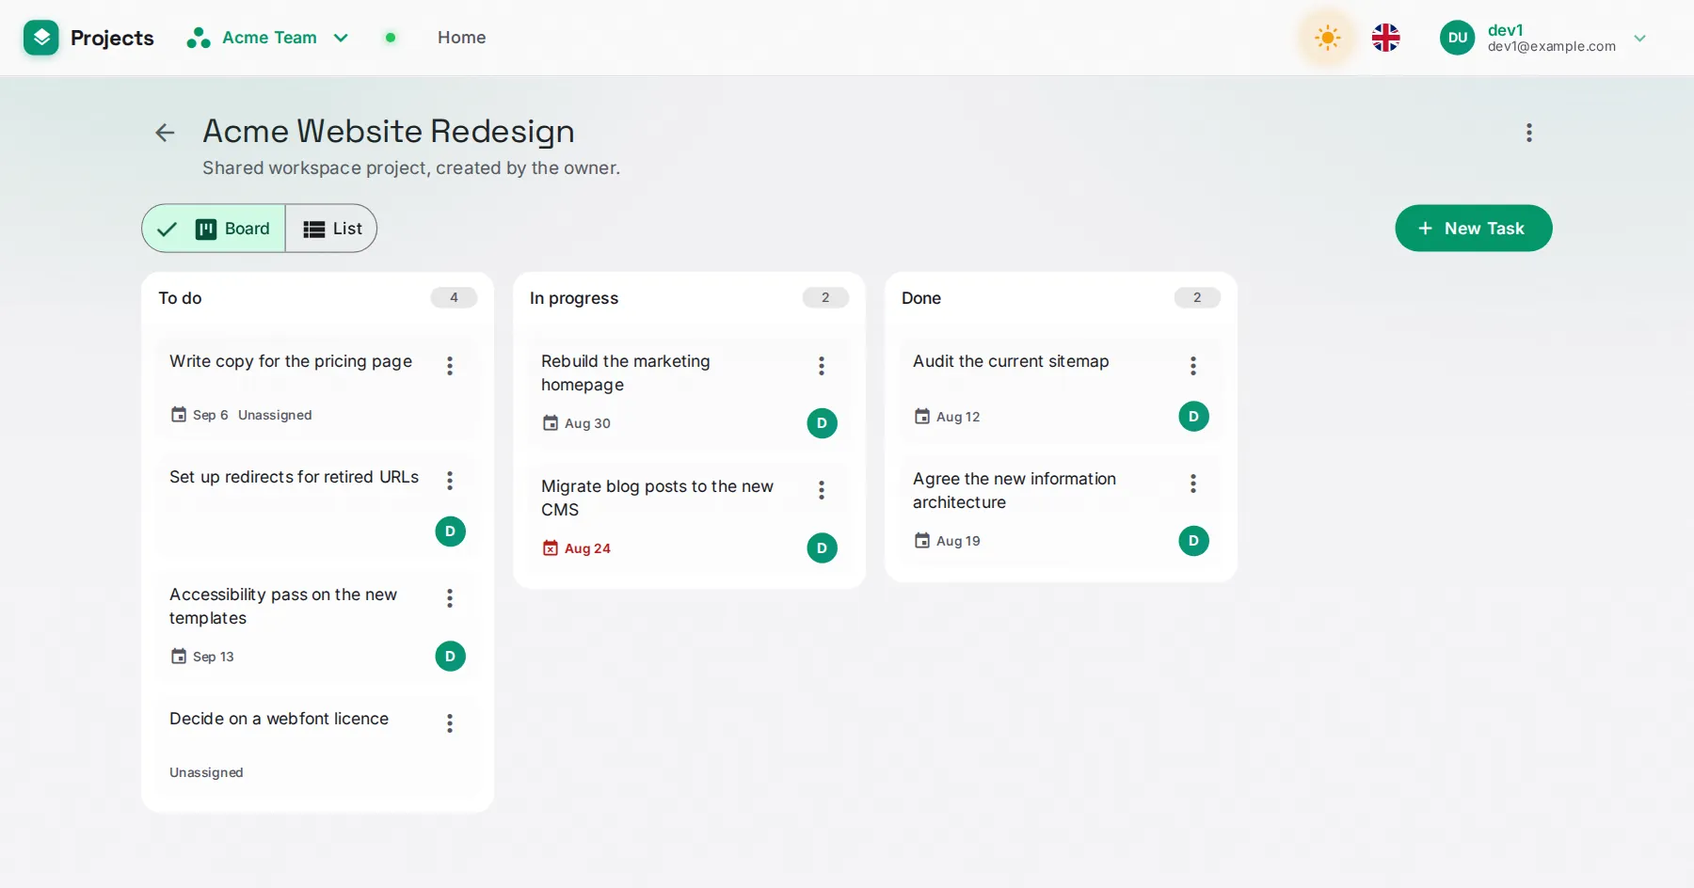
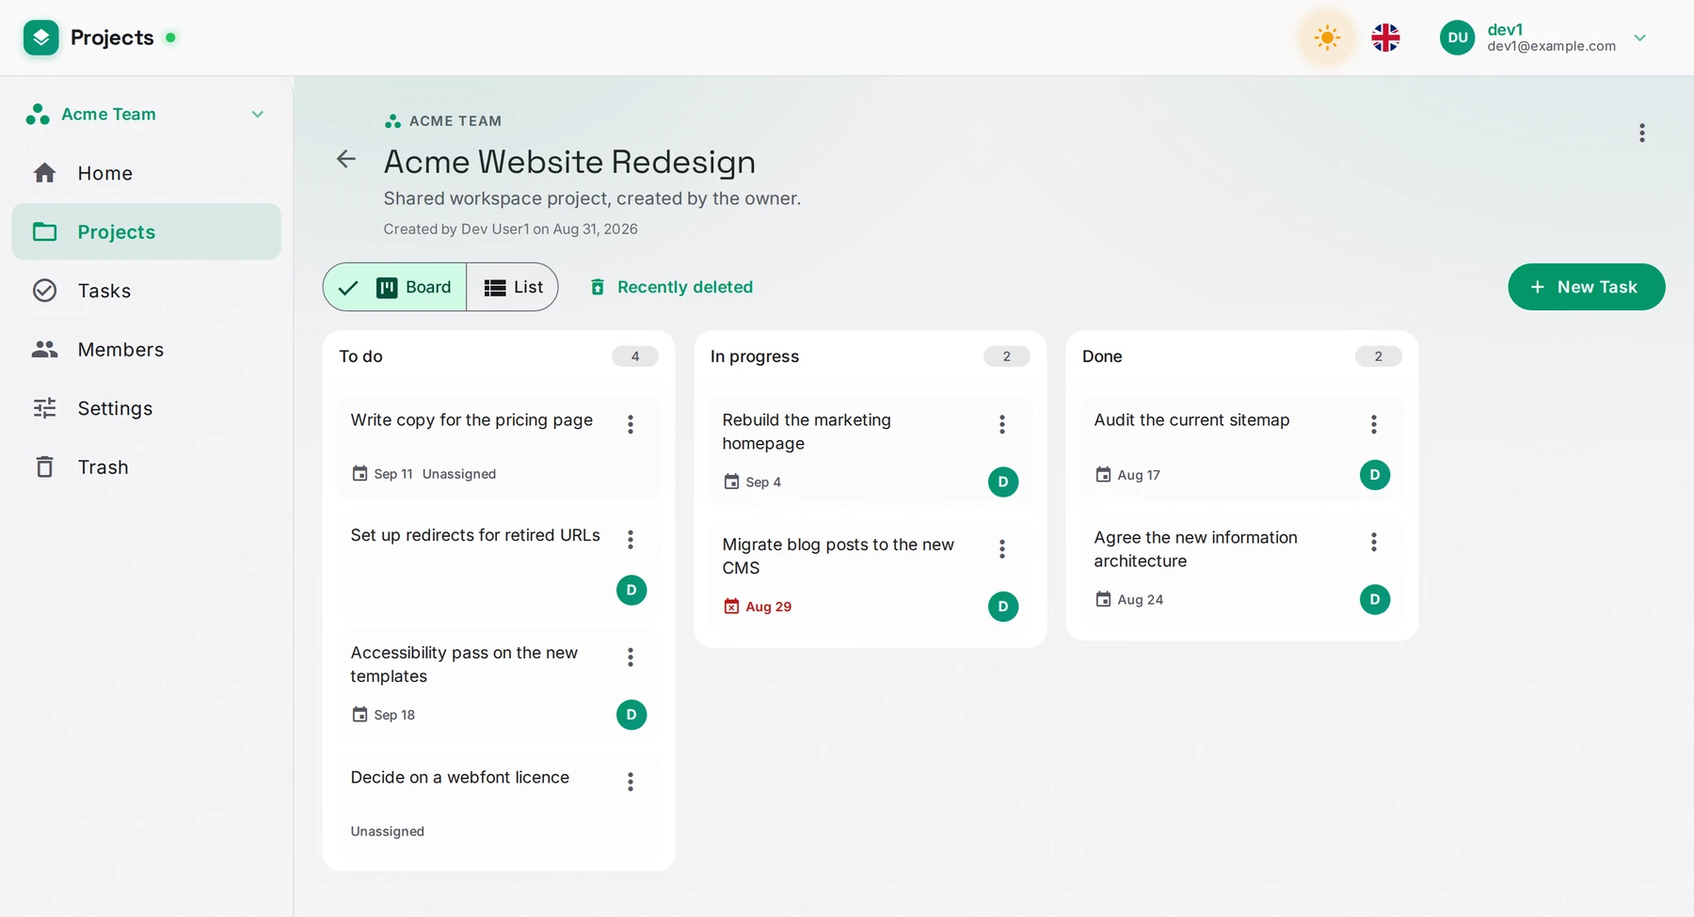
docs(readme): catch the page up with the sidebar, and reshoot it
Every screenshot predated the workspace shell, so the page sold an app with
no sidebar while the app had one on every page under /w. All seven are
reshot: the home, board, list and members in the new chrome, plus two the
set never had -- the workspace trash, which is where the retention window
is actually visible, and the rebuilt admin dashboard. admin-users.webp is
deleted rather than kept: it was the only pre-sidebar shot left, and a
stale image beside six current ones reads as a broken feature.

The prose grew what the last week shipped. A navigation paragraph, since
"the sidebar carries the switcher" is the shape everything else hangs off;
tasks and undo in the deletion paragraph; and three bullets in "what it
demonstrates" -- the trash window published from one bound section, the
IgnoreQueryFilters trap that printed a soft-deleted person's name in every
trash, and midnight as a state change, including the dueBefore date the
client sends because the server's day lags the reader's until 03:00 local.

Counts re-measured rather than incremented: 395 backend, 340 frontend
unit, 82 e2e, 668 translation keys each side. The badge says "817 tests",
not "817 green" -- the e2e number is a --list count, and the two fast
suites are the ones that were run.

Status gained the purge sweeper. The window filters every listing and
refuses a restore past the cutoff, but nothing is destroyed without an
admin clicking Purge, and a README that says "restorable for 30 days"
[…]

diff --git a/README.md b/README.md
@@ -11,14 +11,14 @@
   <img src="https://img.shields.io/badge/.NET-10-512BD4?logo=dotnet&logoColor=white" alt=".NET 10">
   <img src="https://img.shields.io/badge/Angular-22-DD0031?logo=angular&logoColor=white" alt="Angular 22">
   <img src="https://img.shields.io/badge/PostgreSQL-18-4169E1?logo=postgresql&logoColor=white" alt="PostgreSQL 18">
-  <img src="https://img.shields.io/badge/tests-600%20green-34d399" alt="600 tests">
+  <img src="https://img.shields.io/badge/tests-817-34d399" alt="817 tests">
   <img src="https://img.shields.io/badge/CI-4%20gates-38bdf8" alt="CI: 4 jobs">
   <img src="https://img.shields.io/badge/i18n-EN%20%C2%B7%20RO-a78bfa" alt="Languages: English, Romanian">
 </p>
 
 <p align="center">
   <img src="docs/workspace-home.webp" width="900"
-       alt="The workspace home in light theme with the default violet accent: a greeting for dev1, the local weather, counts of open tasks and tasks assigned to me, and the Acme Team workspace's two projects in a searchable table.">
+       alt="The workspace home in light theme with the default violet accent: a sidebar carrying the workspace switcher above Home, Projects, Tasks, Members, Settings and Trash; beside it a greeting for dev1, the local weather, a band reading 3 members, 2 projects and 6 open tasks, then dev1's own open tasks and the two most recently updated projects.">
 </p>
 
 > [!NOTE]
@@ -38,6 +38,12 @@ empty state asking them to create a container before they can create anything. P
 workspaces; tasks live in projects; a workspace shared with other people is the same entity with
 more members in it.
 
+Everything below the workspace is reached through it. A **sidebar** carries the workspace switcher
+at its top and that workspace's destinations under it — Home, Projects, Tasks, Members, Settings,
+Trash — so switching visibly repopulates what is beneath it. The home is a digest of _your_ work
+rather than a company scoreboard: your open tasks, soonest due first, and the projects that moved
+most recently. Nothing aggregates across workspaces, because the workspace is the tenant boundary.
+
 Owners **invite by email**, and the two cases are genuinely different: an address that already has
 an account joins immediately, an address that doesn't gets a redeemable token that is consumed the
 moment they register. Members contribute; only owners can remove a project or move one out.
@@ -46,10 +52,13 @@ Each project opens on a **kanban board** — drag between To do, In progress and
 one of those outcomes from a card menu, because a board only reachable by dragging is a board some
 people cannot use. A `?view=list` toggle swaps in a filterable, sortable table over the same data.
 
-Deleting is reversible until it isn't: projects, workspaces and users go to a **trash** they can be
-restored from, and an admin can purge past that window. Every trash states that window in
-days and counts each row down to its own expiry, rather than alluding to a policy the reader cannot
-see. Erasing a _user_ is a different operation from purging a project, and the app treats it as one.
+Deleting is reversible until it isn't: tasks, projects, workspaces and users all go to a **trash**
+they can be restored from, and an admin can purge past that window. Every trash states that window
+in days and counts each row down to its own expiry, rather than alluding to a policy the reader
+cannot see. Deleting a task also offers **Undo** on the snackbar for the eight seconds after —
+undo for the action that can be taken back, type-to-confirm for the one that can't, and never both
+in front of the same click. Erasing a _user_ is a different operation from purging a project, and
+the app treats it as one.
 
 ## Quick start
 
@@ -165,7 +174,30 @@ harmless from your own machine, which is the only place any of the three answers
   foreign keys (`created_by`/`updated_by`) reference them with `Restrict`. GDPR erasure is therefore
   implemented as **anonymization** — PII scrubbed, password hash dropped, row retained so the audit
   trail stays valid — and it refuses outright if the account is the sole owner of a shared workspace,
-  naming which ones.
+  naming which ones. The one thing erasure does destroy outright is the account's **private**
+  workspace, tasks and projects first: a personal workspace's name is derived from its owner's, so a
+  soft-deleted row would keep the very name the erasure existed to remove — and offer a Restore in
+  the admin trash that contradicts the promise the erasure just made.
+
+- **A number the reader is shown is a number the server enforces.** The trash window has no default
+  in code — `TrashWindow` binds one section, startup fails if it is missing or non-positive, and it
+  fails just as loudly if the _old_ key name is still set rather than falling back to a 30 nobody
+  chose. The API publishes it at `GET /api/config`, so the UI can say "restorable for 30 days" and
+  count each row down to its own expiry instead of alluding to a policy it cannot see — and past the
+  cutoff the same number refuses the restore, rather than a countdown running out on a row that
+  would have come back anyway. A displayed deadline nothing enforces is worse than none, which is
+  why the admin dashboard's workspace numbers carry no countdown at all: workspace purge, unlike
+  project purge, is not cutoff-gated.
+
+- **A query filter is not a privacy guarantee.** Every trash reads through `IgnoreQueryFilters()` to
+  see soft-deleted rows — and that switch is query-**wide** in EF, so it also turned off the filter
+  hiding soft-deleted _users_, printing a deleted person's real name during exactly the window
+  between soft delete and erasure. Every projection now tests `IsDeleted` on the user navigation
+  itself rather than trusting a filter that may not be on. The tests are the other half of the story:
+  two rounds of them were **worthless**, because the fixtures seeded through the synchronous
+  `SaveChanges()`, which skips the audit interceptor — the audit FKs stayed null, an earlier branch
+  answered, and deleting the guards left the suite green. Guards are mutation-checked here for that
+  reason.
 
 - **Ordering that stays the server's business.** A card's position is an integer renumbered per
   column, but a move is expressed as **the neighbours it landed between**, so the client never
@@ -174,6 +206,17 @@ harmless from your own machine, which is the only place any of the three answers
   applied optimistically, then reconciled with the row the server actually wrote — and rolled back
   by _refetching_, because a snapshot taken before the optimistic apply would also erase whatever
   else arrived while the request was in flight.
+
+- **Midnight is a state change, not a rendering detail.** _Overdue_ and _Due today_ are read from a
+  signal holding the reader's calendar day, re-armed a second past each local midnight, so a page
+  left open overnight re-bands itself instead of serving yesterday's answer until something
+  unrelated happens to recompute. The server render schedules no timer — a pending one would hold
+  the response open — and the rollover re-applies only the filter whose result actually depends on
+  the day, since anything wider would throw a reader on page 3 back to page 1 at 00:00:01. The API
+  half is the same argument: the workspace task query takes `dueBefore` as a **date the client
+  sends**, not an `overdue=true` flag, because a due date is a calendar day and in UTC+3 the
+  server's day is the previous one until 03:00 local — which used to drop genuinely late tasks from
+  the Overdue filter for three hours a night.
 
 - **Audit stamping that doesn't lie.** The `DbContext` stamps `UpdatedAt`/`UpdatedBy` on save — but
   rows that shift as a _consequence_ of someone else's edit are marked incidental and skipped.
@@ -196,7 +239,9 @@ harmless from your own machine, which is the only place any of the three answers
   without dragging, so each card carries a menu with move-to-column, move-up and move-down that call
   the same endpoint the drop handler does. The **menu** is what the e2e suite drives, deliberately:
   Playwright's drag against the CDK is flaky, and the accessible path is the one worth pinning —
-  both routes converge on the same `/move` call one layer down.
+  both routes converge on the same `/move` call one layer down. The same rule caught the tables: a
+  row's click was the only route into a trashed item, and it was mouse-only in all four of them, so
+  one directive gives every clickable row a tab stop, a button role, Enter/Space and a focus ring.
 
 - **Theming that goes all the way down.** Light and dark are Material 3 `light-dark()` token pairs,
   so a palette is a set of colours and nothing else — no dark-only literals stranded in components.
@@ -204,7 +249,7 @@ harmless from your own machine, which is the only place any of the three answers
   a reload never flashes. Switching animates as a circular reveal from the control you clicked (View
   Transitions API), and a reader who asks for reduced motion gets the instant swap.
 
-- **Translated to the edges.** English and Romanian, 520 keys each, including the server's error
+- **Translated to the edges.** English and Romanian, 668 keys each, including the server's error
   codes — a failed request is mapped back to a translation key rather than shown whatever prose the
   API happened to return. The language is resolved in an app initializer, so it is settled before
   the first render on the server as well as in the browser.
@@ -222,13 +267,22 @@ harmless from your own machine, which is the only place any of the three answers
   - `WorkspaceAccessService.cs` — the membership guard. Reads the **row**, not a projection:
     `FirstOrDefaultAsync` over a projected enum returns `default(WorkspaceRole)`, so a non-member
     would read as a Member.
-  - `TaskService.cs` — the neighbour-based move, per-column renumbering, and the incidental-change
-    marking that keeps a drag from re-attributing a whole column.
+  - `TaskService.cs` — the neighbour-based move, per-column renumbering, the incidental-change
+    marking that keeps a drag from re-attributing a whole column, and the two trash reads. The
+    workspace-wide one spells `!t.Project.IsDeleted` out inline, because the `IgnoreQueryFilters()`
+    it needs to see deleted tasks would otherwise fill the list with rows that restore refuses.
   - `InvitationService.cs` — invite, revoke, accept, and the no-token redemption that runs at
     registration and is forbidden from throwing, because a stale invitation must not fail a signup.
-  - `Admin/AdminUserService.cs` — anonymization, including the sole-owner refusal.
+  - `Admin/AdminUserService.cs` — anonymization, the sole-owner refusal, and the hard delete of the
+    erased account's private workspace.
+  - `Admin/AdminDashboardService.cs` — the aggregate counts and the lifecycle numbers the dashboard
+    splits into a "needs attention" queue and a quieter context strip.
 - **`Data/AppDbContext.cs`** — query filters, audit stamping, the partial unique indexes, and the
   Postgres error translation.
+- **`Mappings/`** — the DTO projections, each testing `IsDeleted` on a user navigation itself rather
+  than relying on a query filter the caller may have turned off.
+- **`Config/TrashWindow.cs`** + **`Controllers/ConfigController.cs`** — the one retention window,
+  bound with no code default and published anonymously, since a retention policy is not a secret.
 - **`Data/*QueryExtensions.cs`** — the composable access predicates (`InWorkspacesOf`,
   `InProjectsOf`, `Pending`), each carrying the note on why it is an `EXISTS`.
 - **`Extensions/ServiceExtensions.cs`** — Identity, JWT bearer, the rate-limit policies and the
@@ -246,30 +300,45 @@ harmless from your own machine, which is the only place any of the three answers
 
 <p align="center">
   <img src="docs/board.webp" width="900"
-       alt="The kanban board for Acme Website Redesign in light theme with the emerald accent: three columns — To do with four cards, In progress with two, Done with two — cards carrying a title with a due date and assignee where they are set, one of them overdue in red.">
+       alt="The kanban board for Acme Website Redesign in light theme with the emerald accent: the workspace sidebar on the left, a project header with a Board/List toggle and a Recently deleted link, then three columns — To do with four cards, In progress with two, Done with two — cards carrying a title with a due date and assignee where they are set, one of them overdue in red.">
 </p>
 
 Three columns, drag between them, and a per-card menu carrying the same moves for anyone not using a
-mouse. Cards show what a card has to: assignee, due date, and **overdue in red**. Trashing a project
-doesn't touch its tasks — they fall out of every query through the same membership subquery and come
-back intact on restore.
+mouse. Cards show what a card has to: assignee, due date, and **overdue in red**. The project's own
+"Recently deleted" sits in the view bar beside the Board/List toggle, one click from where a card was
+lost. Trashing a project doesn't touch its tasks — they fall out of every query through the same
+membership subquery and come back intact on restore.
 
 ### The list view
 
 <p align="center">
   <img src="docs/task-list.webp" width="900"
-       alt="The same project in list view, light theme with the indigo accent: a table of eight tasks with title, description, assignee, status chip and due date, below search, an Assigned to me filter and an Overdue filter, with pagination showing 1 to 8 of 8.">
+       alt="The same project in list view, light theme with the indigo accent: a table of eight tasks with title, description, assignee, status chip and due date, below search, an Assigned to me filter and an Overdue filter, with pagination showing 1 to 8 of 8. One row's due date is red for overdue.">
 </p>
 
 The same tasks, one `?view=list` away — search, _assigned to me_, _overdue_, and a paginator. The
 view lives in the URL rather than in stored preferences, which is what keeps it free of an SSR
 problem: there is no per-user state to resolve before the first render.
 
+### Recently deleted
+
+<p align="center">
+  <img src="docs/trash.webp" width="900"
+       alt="The Acme Team trash in light theme with the slate accent: a Tasks tab and a Projects tab under the heading, and three deleted tasks in a table with title, project, status, deleted date and an Expires column reading in 28 days, in 19 days, and in 3 days in red.">
+</p>
+
+One trash per workspace, with a tab per kind. **Tasks is the tab both roles have** — any member may
+delete a task, so any member must be able to restore one — while Projects is owner-only, and the
+guard sits on that child route rather than on the page, so a member reaching `/trash` gets the tab
+that belongs to them instead of a 403. The window is stated once in the subtitle and then per row:
+each line counts down to its own expiry and turns red as it runs out, which is only honest because
+the same number is the one the server enforces.
+
 ### Members and invitations
 
 <p align="center">
   <img src="docs/members.webp" width="900"
-       alt="The Members page for Acme Team in light theme with the rose accent: Dev User1 as Owner marked You, Dev User2 and Dev User3 as Members with editable role dropdowns and remove buttons, below a header carrying Invite people and Leave workspace.">
+       alt="The Members page for Acme Team in light theme with the rose accent: Dev User1 as Owner marked You, Dev User2 and Dev User3 as Members with editable role dropdowns and remove buttons, below a header carrying Invite people and Leave workspace, with the workspace sidebar alongside.">
 </p>
 
 Roles are editable in place, and the actions that aren't yours simply aren't there. A personal
@@ -280,29 +349,40 @@ workspace" is not a thing the model should permit.
 
 <p align="center">
   <img src="docs/theming.webp" width="900"
-       alt="The profile menu open over the workspace home in dark theme, showing the signed-in user and a row of five accent swatches — violet, indigo, emerald, rose and slate — above My Profile and Sign Out.">
+       alt="The profile menu open over the workspace home in dark theme with the rose accent, showing the signed-in user and a row of five accent swatches — violet, indigo, emerald, rose and slate, rose selected — above My Profile and Sign Out.">
 </p>
 
 Five accents, two themes, independently chosen and both remembered. Untouched, the theme follows the
 OS — including live, if the OS flips at sunset. The screenshots on this page run through all five
-accents — violet here and on the workspace home, then emerald, indigo, rose and slate. This one is
-the dark theme; the rest are light. Violet is the accent a new account gets.
+accents — violet on the workspace home, emerald on the board, indigo on the list, slate on the trash
+and rose on Members. The last two, the admin dashboard and this one, are the dark theme; the rest are
+light. Violet is the accent a new account gets.
 
 ### The admin area
 
 <p align="center">
-  <img src="docs/admin-users.webp" width="900"
-       alt="The admin users table in light theme with the slate accent: the four seeded accounts with email and creation date, a Delete action on each row and a disabled one on the signed-in admin, beside a sidebar holding Dashboard, Users and the three trash views.">
+  <img src="docs/admin-dashboard.webp" width="900"
+       alt="The admin dashboard in dark theme with the violet accent: a greeting for Admin beside the local weather, the heading Projects Administration with a DEVELOPMENT badge, a band reading 4 users, 1 shared workspace, 8 projects and 8 tasks, a Needs attention queue holding 9 projects past the window, recent signups, and a strip stating that projects are purgeable 30 days after deletion.">
 </p>
 
 An administrator administers, and holds no projects or workspaces of their own — enforced by an
-authorization policy rather than by convention. Destructive actions here are **type-to-confirm**:
-one row asks for its name, a batch asks for its size, because a batch has no single name to type and
-the count is the blast radius.
+authorization policy rather than by convention. The dashboard is the workspace home's skeleton with
+admin nouns in it, sharing one stylesheet and one greeting rather than a second copy of each, which
+is how the two drifted apart in the first place. Its band counts live rows; **"Needs attention"
+holds only the numbers with a verb behind them** — projects past the purge window, accounts awaiting
+erasure — and collapses to a single sentence when there is nothing to do. Locked-out accounts are
+counted in the strip below rather than promoted into the queue, because `/admin/users` has no unlock
+to send anyone to yet, and a card that promises a verb it cannot deliver is worse than a sentence.
+Lifetime totals that only ever grow were dropped outright: a metric that cannot change what the
+reader does next has not earned the screen.
+
+Behind it, `/admin/users` lists accounts and the three trashes hold what has been deleted.
+Destructive actions there are **type-to-confirm**: one row asks for its name, a batch asks for its
+size, because a batch has no single name to type and the count is the blast radius.
 
 ## Testing
 
-600 tests across three suites, all four CI jobs gating every push.
+817 tests across three suites, all four CI jobs gating every push.
 
 ```bash
 # Backend — xUnit v3, entirely EF InMemory, so no database needed
@@ -320,11 +400,11 @@ connections and runs `npm install` first, and `e2e_node_modules` is an empty nam
 over `/app/node_modules` on a fresh clone. `run --rm e2e npx playwright test` replaces that command,
 so npx would fetch a Playwright that doesn't match the browsers baked into the image.
 
-| Suite                   | Count   | Notes                                                                     |
-| ----------------------- | ------- | ------------------------------------------------------------------------- |
-| Backend (xUnit v3)      | **338** | Services, controllers, validators, middleware, plus the architecture test |
-| Frontend unit (Vitest)  | **197** | Services, guards, interceptors, and the signal-based table helpers        |
-| End-to-end (Playwright) | **65**  | 19 specs driving the real stack through nginx                             |
+| Suite                   | Count   | Notes                                                                          |
+| ----------------------- | ------- | ------------------------------------------------------------------------------ |
+| Backend (xUnit v3)      | **395** | Services, controllers, validators, mappings, middleware, the architecture test |
+| Frontend unit (Vitest)  | **340** | Services, guards, interceptors, components, and the signal-based table helpers |
+| End-to-end (Playwright) | **82**  | 22 specs driving the real stack through nginx                                  |
 
 CI runs four jobs: workflow lint (actionlint), backend, frontend, and e2e gated behind the two fast
 suites. Both language gates are set to fail on warnings — `-warnaserror` on the .NET build,
@@ -427,8 +507,9 @@ Migrations apply automatically on API startup, ahead of seeding.
 
 ## Status
 
-Actively developed. Workspaces, workspace-scoped access, tasks on a kanban board, the admin area,
-brute-force protection, the single-origin proxy and the full CI pipeline are all in place.
+Actively developed. Workspaces, workspace-scoped access, tasks on a kanban board, recovery for
+everything that can be deleted, the admin area, brute-force protection, the single-origin proxy and
+the full CI pipeline are all in place.
 
 What's deliberately not done yet, roughly in the order it's being attacked:
 
@@ -441,6 +522,11 @@ What's deliberately not done yet, roughly in the order it's being attacked:
 - **Rate limiting at the proxy.** The in-process limiter rejects only after a request reaches Kestrel,
   and its counters die with the process — a restart hands every attacker a fresh budget. A
   `limit_req` zone in nginx is complementary, and lands with the production config.
+- **A sweeper, so the retention window is a deletion policy and not only a recovery one.** The
+  window already filters every trash listing and refuses a restore past it, but nothing is destroyed
+  without an admin clicking Purge — so a row the reader believes is gone at 30 days is retained until
+  someone acts. That is a data-minimization problem before it is a storage one. The shape is a hosted
+  service purging past-window rows, tasks before projects, because the FK is `Restrict`.
 - **An audit log for admin actions.** Anonymizing a user and purging a project are irreversible, and
   the only trace today is a request log line that records the route but not the actor or the target.
 - **The account lifecycle** — email confirmation, password reset, self-service email change.
